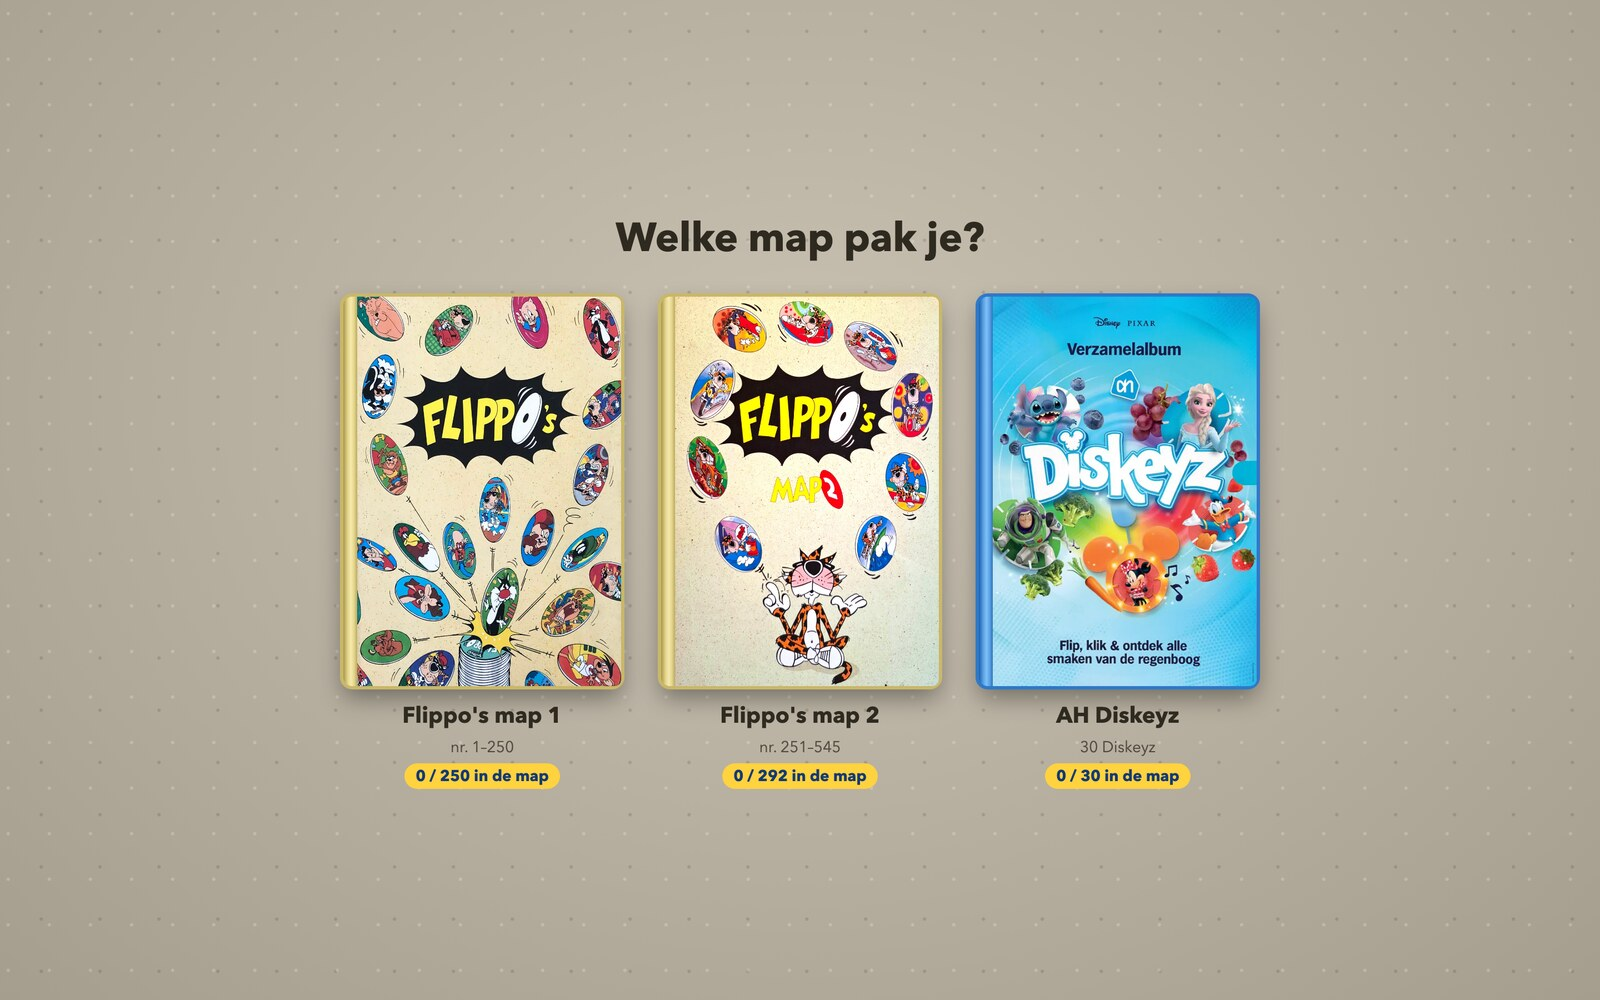
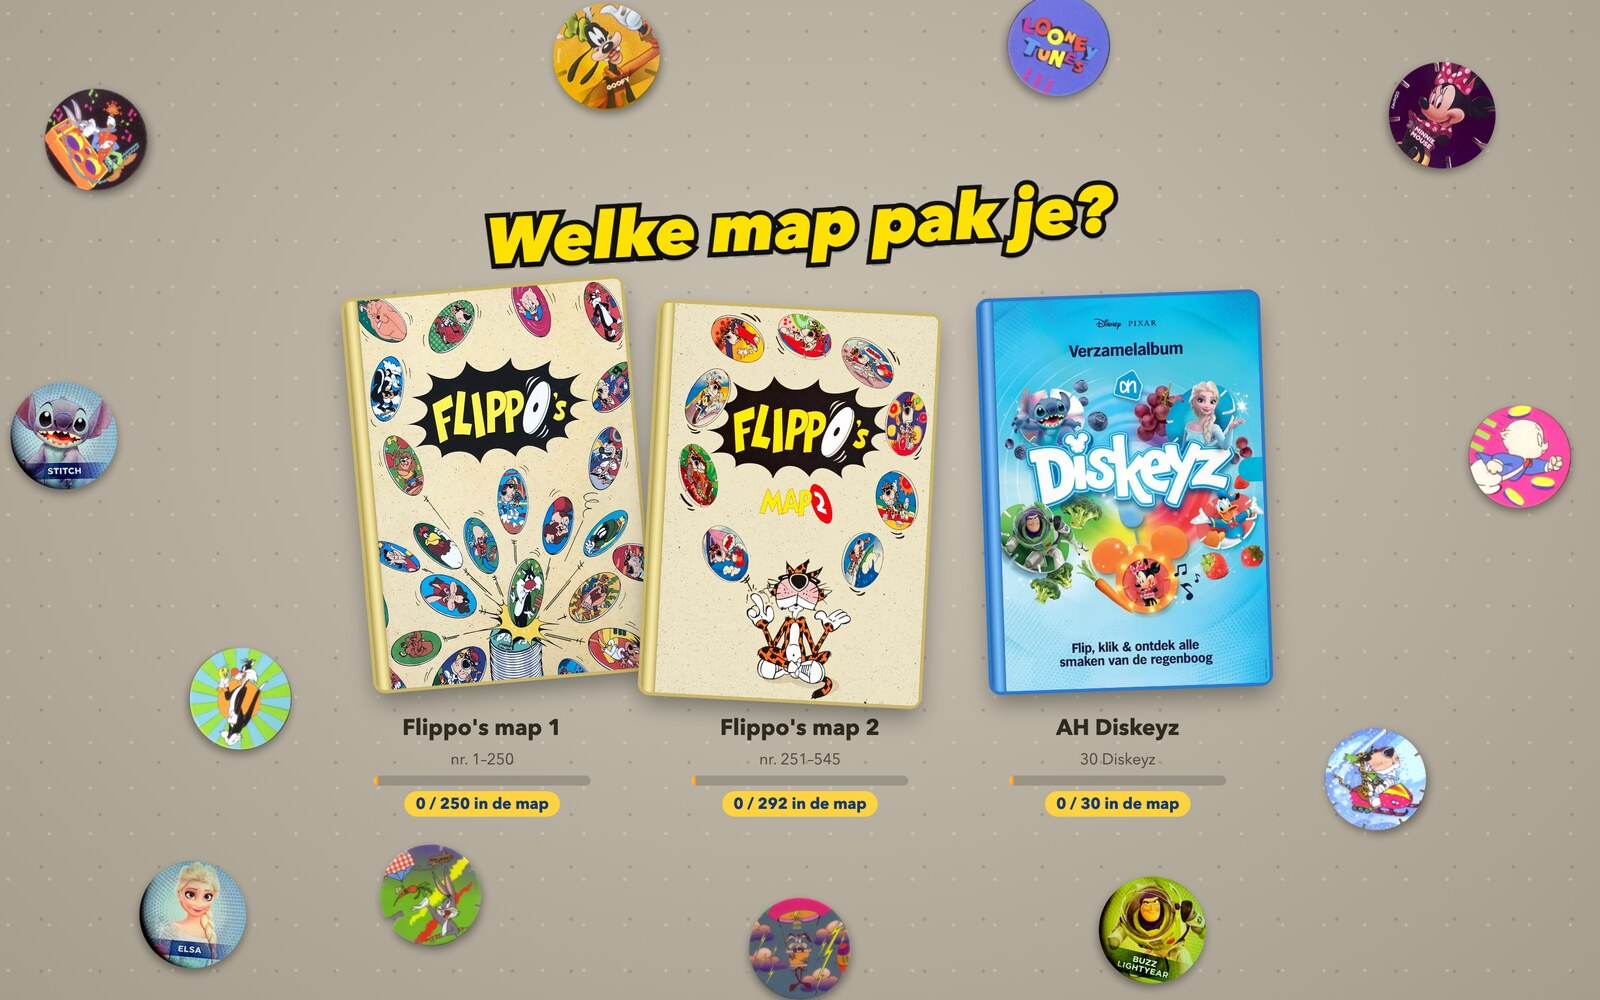
Speelser overzicht en zak, bezem om de tafel leeg te vegen
- Mappenoverzicht: titel in logostijl, mappen scheef op tafel, losse flippo's, voortgangsbalk
- Zak chips lichter, kleiner en meer in het midden; titel in logostijl met losse chips
- Bezem om alle losse flippo's van tafel te vegen (map blijft)
- Hoekjes van de bladzijdes pas tonen als de map openligt

diff --git a/app.js b/app.js
@@ -570,6 +570,13 @@ function applyAlbumState(instant) {
   else {
     discs.forEach((d) => d.slot != null && d.el.classList.add('stowed'));
     applyAlbumState.t = setTimeout(set, open ? 550 : 0);
+    // omgekrulde hoekjes pas tonen als de kaft helemaal openligt
+    if (open) {
+      const el = albumEl;
+      el.classList.add('opening');
+      clearTimeout(applyAlbumState.o);
+      applyAlbumState.o = setTimeout(() => el.classList.remove('opening'), 750);
+    }
   }
 }
 
@@ -895,6 +902,32 @@ window.addEventListener('pointermove', (e) => {
 });
 
 // ---------- knoppen ----------
+// ---------- tafel leegvegen ----------
+// Veegt alle losse flippo's (ook bouwwerken) van tafel. Wat in de map zit blijft.
+let sweepArmed = -1e9;
+$('#btn-sweep').onclick = () => {
+  const loose = discs.filter((d) => d.slot == null);
+  if (!loose.length) return toast('De tafel is al leeg');
+  const now = performance.now();
+  if (now - sweepArmed > 3500) {          // eerst vragen: weg is weg
+    sweepArmed = now;
+    return toast(`Tik nog een keer om ${loose.length} losse flippo's van tafel te vegen`);
+  }
+  sweepArmed = -1e9;
+  for (const d of loose) {
+    d.links = [];
+    discs.splice(discs.indexOf(d), 1);
+    d.el.classList.add('swept');
+    d.x = L.W + L.R * 4 + Math.random() * 200;
+    d.y += (Math.random() - 0.5) * 160;
+    d.rot += 200 + Math.random() * 300;
+    render(d);
+    setTimeout(() => d.el.remove(), 650);
+  }
+  snd('page');
+  save();
+};
+
 // ---------- zakje openscheuren ----------
 let pack = null;
 const PACK_N = FLIPPO ? 5 : 3;   // zoveel flippo's per zak
@@ -904,8 +937,8 @@ $('#btn-pack').onclick = () => {
   $('#btn-pack').classList.remove('nudge');
   makeRoom(PACK_N);
   const big = L.mode === 'p';
-  const h = (big ? 760 : 500) * (FLIPPO ? 1.3 : 1), w = h * SET.packRatio;   // de zak chips is groter dan het zakje
-  const cy = L.H * (FLIPPO ? 0.4 : 0.5);   // de zak chips hangt wat hoger, zodat eronder ruimte is voor de chips
+  const h = (big ? 760 : 500) * (FLIPPO ? 1.1 : 1), w = h * SET.packRatio;   // de zak chips is groter dan het zakje
+  const cy = L.H * (FLIPPO ? 0.46 : 0.5);   // de zak chips hangt wat hoger, zodat eronder ruimte is voor de chips
   // rafelige rand: het zakje bij de bovenste naad, de zak chips bij de onderste
   const cutY = FLIPPO ? 88 : 13;
   const pts = [];
@@ -926,7 +959,10 @@ $('#btn-pack').onclick = () => {
       `<div class="pk pk-flap l" style="clip-path:polygon(${pts.slice(0, 8).join(',')},50% 100%,0 100%)"></div>` +
       `<div class="pk pk-flap r" style="clip-path:polygon(${pts.slice(7).join(',')},100% 100%,50% 100%)"></div>` +
       `</div>` +
-      hint('Pop de zak chips open!', 'knijp in het midden van de zak');
+      hint('Pop de zak chips open!', 'knijp in het midden van de zak') +
+      // losse chips die rond de zak liggen te wiebelen
+      [[-34, 12], [-22, 58], [-40, 88], [128, 20], [118, 66], [138, 96], [-12, 104], [108, 108]].map(([x, y], i) =>
+        `<i class="pk-deco" style="left:${x}%;top:${y}%;--r:${i * 53 % 80 - 40}deg;animation-delay:${-i * 0.6}s;background-image:url(${SET.dir}/chip-${1 + (i % 5)}.webp)"></i>`).join('');
   } else {
     el.innerHTML =
       `<div class="pk pk-body" style="clip-path:polygon(${edge},100% 100%,0 100%)"></div>` +
@@ -1338,6 +1374,7 @@ function showHelp() {
     ['📖', 'Sleep een bladzijde', 'om hem om te slaan, of de kaft om de map dicht te doen'],
     [FLIPPO ? '🍟' : '🎁', FLIPPO ? 'Tik op de zak chips' : 'Tik op het zakje', 'linksonder voor nieuwe flippo\'s'],
     ['📚', 'Tik op het stapeltje', 'linksboven om een andere map te pakken'],
+    ['🧹', 'Tik op de bezem', 'rechtsonder om alle losse flippo\'s van tafel te vegen'],
     ['🤏', 'Knijp', 'met twee vingers (of ctrl + scrollen) om in te zoomen'],
   ];
   const box = $('#help');
@@ -1361,11 +1398,18 @@ function showChooser() {
     card.className = 'ch-card';
     card.innerHTML = `<div class="ch-book ${set.kind}"><img src="${set.cover}" alt=""></div><b>${set.title}</b>` +
       `<span>${set.kind === 'flippo' ? `nr. ${set.from}–${set.to}` : '30 Diskeyz'}</span>` +
+      `<u><i style="width:${Math.round(n / total * 100)}%"></i></u>` +
       `<em>${n} / ${total} in de map</em>`;
     card.dataset.key = key;
     card.onclick = () => pickSet(key, card);
     box.querySelector('.ch-list').appendChild(card);
   }
+  // losse flippo's die rond de mappen op tafel liggen
+  const deco = [[6, 14, 'flippo-1/001.webp'], [15, 70, 'flippo-1/006.webp'], [4, 44, 'diskeyz/25.jpg'], [27, 90, 'flippo-2/255.webp'],
+    [90, 12, 'diskeyz/02.jpg'], [95, 46, 'flippo-1/044.webp'], [86, 78, 'flippo-1/130.webp'], [72, 93, 'diskeyz/17.jpg'],
+    [50, 95, 'flippo-2/341.webp'], [38, 6, 'diskeyz/11.jpg'], [66, 5, 'flippo-1/060.webp'], [12, 92, 'diskeyz/21.jpg']];
+  box.insertAdjacentHTML('afterbegin', deco.map(([x, y, f], i) =>
+    `<img class="ch-deco${f.endsWith('.jpg') ? ' round' : ''}" src="img/${f}" alt="" style="left:${x}%;top:${y}%;--r:${(i * 47) % 70 - 35}deg;animation-delay:${-i * 0.7}s">`).join(''));
   // terug uit een map: die kaft komt van de tafel teruggevlogen, de andere mappen verschijnen weer
   let from = null;
   try { from = sessionStorage.getItem('flippo-from'); sessionStorage.removeItem('flippo-from'); } catch { /* geen opslag */ }
@@ -1381,7 +1425,7 @@ function showChooser() {
     book.style.transform = '';
     box.classList.remove('fadeout');
     setTimeout(() => { card.classList.remove('picked'); book.style.transition = ''; }, 650);
-  }
+  } else box.classList.add('enter');   // gewoon binnenkomen: de mappen ploffen één voor één op tafel
 }
 
 // waar ligt de dichte map op tafel? (schermcoördinaten van de voorkaft, inclusief de rug)
@@ -1397,7 +1441,12 @@ function coverRect() {
 }
 // verplaatsing en schaal waarmee een kaft uit het overzicht precies op die plek komt
 function flyTransform(book) {
+  // meten zonder de scheve ligging van de kaft in het overzicht
+  const keep = [book.style.transition, book.style.transform];
+  book.style.transition = 'none'; book.style.transform = 'none';
   const r = book.getBoundingClientRect(), t = coverRect();
+  [book.style.transition, book.style.transform] = keep;
+  void book.offsetWidth;
   return `translate(${t.left - r.left}px, ${t.top - r.top}px) scale(${t.width / r.width}, ${t.height / r.height})`;
 }
 
@@ -1405,6 +1454,7 @@ function flyTransform(book) {
 function pickSet(key, card) {
   const box = $('#chooser');
   if (box.classList.contains('fadeout')) return;
+  box.classList.remove('enter');
   card.classList.add('picked');
   box.classList.add('fadeout');
   const book = card.querySelector('.ch-book');
@@ -1454,6 +1504,7 @@ if (!SET) {
   home.innerHTML = Object.values(SETS).filter((x) => x !== SET).map((x) => `<i style="background-image:url(${x.cover})"></i>`).join('');
   $('#btn-sound').hidden = false;
   $('#btn-help').hidden = false;
+  $('#btn-sweep').hidden = false;
   applyLayout();
   if (!load()) {
     if (FLIPPO) toast('Open een zak chips om flippo\'s te krijgen!');

diff --git a/style.css b/style.css
@@ -791,8 +791,8 @@ body {
   background:
     radial-gradient(ellipse 34% 26% at 30% 27%, rgba(255, 255, 255, .6), transparent 70%),
     radial-gradient(ellipse 16% 30% at 78% 62%, rgba(255, 255, 255, .22), transparent 70%),
-    linear-gradient(90deg, rgba(0, 0, 0, .55), transparent 20%, rgba(255, 255, 255, .1) 45%, transparent 76%, rgba(0, 0, 0, .6)),
-    linear-gradient(180deg, rgba(0, 0, 0, .5), transparent 13%, transparent 85%, rgba(0, 0, 0, .55)),
+    linear-gradient(90deg, rgba(0, 0, 0, .36), transparent 20%, rgba(255, 255, 255, .1) 45%, transparent 76%, rgba(0, 0, 0, .4)),
+    linear-gradient(180deg, rgba(0, 0, 0, .32), transparent 13%, transparent 85%, rgba(0, 0, 0, .36)),
     repeating-linear-gradient(90deg, rgba(0, 0, 0, .22) 0 2px, transparent 2px 7px) top / 100% 5% no-repeat,
     repeating-linear-gradient(90deg, rgba(0, 0, 0, .22) 0 2px, transparent 2px 7px) bottom / 100% 5% no-repeat;
 }
@@ -942,7 +942,7 @@ body {
 .curl.next { right: 0; background: linear-gradient(315deg, transparent 0 46%, rgba(0, 0, 0, .28) 47%, #fff 52%, #e7e2d2 100%); border-top-left-radius: 100% 100%; clip-path: polygon(100% 0, 0 100%, 0 0); transform-origin: 100% 100%; }
 .curl.prev { left: 0; background: linear-gradient(45deg, transparent 0 46%, rgba(0, 0, 0, .28) 47%, #fff 52%, #e7e2d2 100%); clip-path: polygon(0 0, 100% 100%, 100% 0); transform-origin: 0 100%; }
 .curl:hover { transform: scale(1.25); }
-.album.closed .curl, .album:has(.turnlayer) .curl { display: none; }
+.album.closed .curl, .album.opening .curl, .album:has(.turnlayer) .curl { display: none; }
 .page { cursor: grab; }
 
 /* dikte van de dichte map (zie je als hij omdraait) */
@@ -1079,3 +1079,105 @@ body.intro .obj { transition: none; }
   text-align: center;
   line-height: 1.3;
 }
+
+/* bezem rechtsonder: veegt de losse flippo's van tafel */
+#btn-sweep {
+  right: 14px;
+  bottom: 14px;
+  width: 52px;
+  height: 52px;
+  border-radius: 50%;
+  background: rgba(255, 255, 255, .55);
+  font-size: 27px;
+  box-shadow: 0 2px 5px rgba(0, 0, 0, .25);
+}
+.disc.swept { transition: transform .6s cubic-bezier(.5, 0, .9, .6), opacity .6s; opacity: 0; pointer-events: none; }
+
+/* ---------- speelser overzicht: mappen liggen scheef op tafel tussen losse flippo's ---------- */
+#chooser h1 {
+  position: relative;
+  z-index: 1;
+  font-size: clamp(30px, 6vw, 58px);
+  font-weight: 900;
+  font-style: italic;
+  color: #ffe100;
+  -webkit-text-stroke: clamp(5px, .9vw, 9px) #111;
+  paint-order: stroke fill;
+  transform: rotate(-3deg);
+  text-shadow: 0 6px 0 rgba(0, 0, 0, .18);
+}
+.ch-list { position: relative; z-index: 1; }
+.ch-card { transition: opacity .4s, transform .25s cubic-bezier(.3, 1.6, .5, 1); }
+.ch-card:nth-child(1) { --rot: -5deg; }
+.ch-card:nth-child(2) { --rot: 3deg; }
+.ch-card:nth-child(3) { --rot: -2deg; }
+.ch-card:hover { transform: translateY(-12px) scale(1.04); }
+.ch-book { transform-origin: 0 0; transform: rotate(var(--rot, 0deg)); transition: transform .25s; }
+.ch-card:hover .ch-book { transform: rotate(0deg); }
+.ch-card b { margin-top: 6px; }
+.ch-card u {
+  display: block;
+  width: 78%;
+  height: 9px;
+  border-radius: 99px;
+  background: rgba(0, 0, 0, .16);
+  overflow: hidden;
+  text-decoration: none;
+  transition: opacity .4s;
+}
+.ch-card u i { display: block; height: 100%; min-width: 4px; border-radius: 99px; background: linear-gradient(90deg, #ffd23f, #ff8a1f); }
+#chooser.fadeout .ch-card u, #chooser.fadeout .ch-deco { opacity: 0; }
+.ch-deco {
+  position: absolute;
+  width: clamp(54px, 8vw, 96px);
+  aspect-ratio: 1;
+  margin: calc(clamp(54px, 8vw, 96px) / -2);
+  filter: drop-shadow(0 4px 4px rgba(0, 0, 0, .4));
+  transform: rotate(var(--r));
+  animation: decowig 5s ease-in-out infinite;
+  transition: opacity .4s;
+  pointer-events: none;
+}
+.ch-deco.round { border-radius: 50%; }
+@keyframes decowig { 50% { transform: rotate(calc(var(--r) + 14deg)) translateY(-5px); } }
+#chooser.enter .ch-card { animation: plop .55s cubic-bezier(.3, 1.5, .5, 1) backwards; }
+#chooser.enter .ch-card:nth-child(2) { animation-delay: .1s; }
+#chooser.enter .ch-card:nth-child(3) { animation-delay: .2s; }
+@keyframes plop { from { opacity: 0; transform: translateY(-70px) scale(1.25) rotate(8deg); } }
+@media (max-width: 640px) { .ch-deco { opacity: .55; } .ch-card:nth-child(3) { grid-column: 1 / -1; justify-self: center; width: calc(50% - 9px); } }
+
+/* ---------- speelsere zak: titel in logostijl en losse chips eromheen ---------- */
+.pk-hint {
+  font-size: calc(22px + 18px * var(--hs, 1));
+  font-weight: 900;
+  font-style: italic;
+  color: #ffe100;
+  -webkit-text-stroke: 6px #111;
+  paint-order: stroke fill;
+  text-shadow: 0 5px 0 rgba(0, 0, 0, .25);
+  transform: translateX(-50%) rotate(-3deg);
+  animation: hintin .5s cubic-bezier(.3, 1.6, .5, 1) .25s backwards;
+}
+.pk-hint small {
+  display: inline-block;
+  margin-top: 6px;
+  font-style: normal;
+  font-weight: 700;
+  color: #fff;
+  -webkit-text-stroke: 0;
+  text-shadow: 0 2px 5px rgba(0, 0, 0, .7);
+}
+@keyframes hintin { from { opacity: 0; transform: translateX(-50%) rotate(-10deg) scale(.5); } }
+.pk-deco {
+  position: absolute;
+  width: 22%;
+  aspect-ratio: 1;
+  margin: -11%;
+  background: center / contain no-repeat;
+  filter: drop-shadow(0 4px 4px rgba(0, 0, 0, .45));
+  transform: rotate(var(--r));
+  animation: decowig 4s ease-in-out infinite;
+  transition: opacity .3s;
+  pointer-events: none;
+}
+.pack.open .pk-deco { opacity: 0; }

diff --git a/index.html b/index.html
@@ -4,7 +4,7 @@
 <meta charset="utf-8">
 <meta name="viewport" content="width=device-width, initial-scale=1, maximum-scale=1, user-scalable=no">
 <title>Flippo's</title>
-<link rel="stylesheet" href="style.css?v=34">
+<link rel="stylesheet" href="style.css?v=42">
 </head>
 <body>
 <main id="table">
@@ -14,6 +14,7 @@
   <button id="btn-pack" class="obj" hidden></button>
   <button id="btn-sound" class="obj" title="Geluid aan/uit" hidden>🔊</button>
   <button id="btn-help" class="obj" title="Uitleg" hidden>?</button>
+  <button id="btn-sweep" class="obj" title="Veeg alle losse flippo's van tafel" hidden>🧹</button>
 </main>
 <div id="help" hidden>
   <div class="help-card">
@@ -33,7 +34,7 @@
   <div class="ch-list"></div>
 </div>
 <div id="toast"></div>
-<script src="flippos-data.js?v=34"></script>
-<script src="app.js?v=34"></script>
+<script src="flippos-data.js?v=42"></script>
+<script src="app.js?v=42"></script>
 </body>
 </html>

diff --git a/README.md b/README.md
@@ -79,3 +79,4 @@ Ga naar [flippos.bramdehart.nl](https://flippos.bramdehart.nl). Je spel wordt va
 | Knijpen, of ctrl + scrollen | In- en uitzoomen |
 | Tikken op het zakje of de zak chips | Nieuwe flippo's openmaken |
 | Tikken op het stapeltje mappen | Een andere map pakken |
+| Twee keer tikken op de bezem | Alle losse flippo's van tafel vegen |
